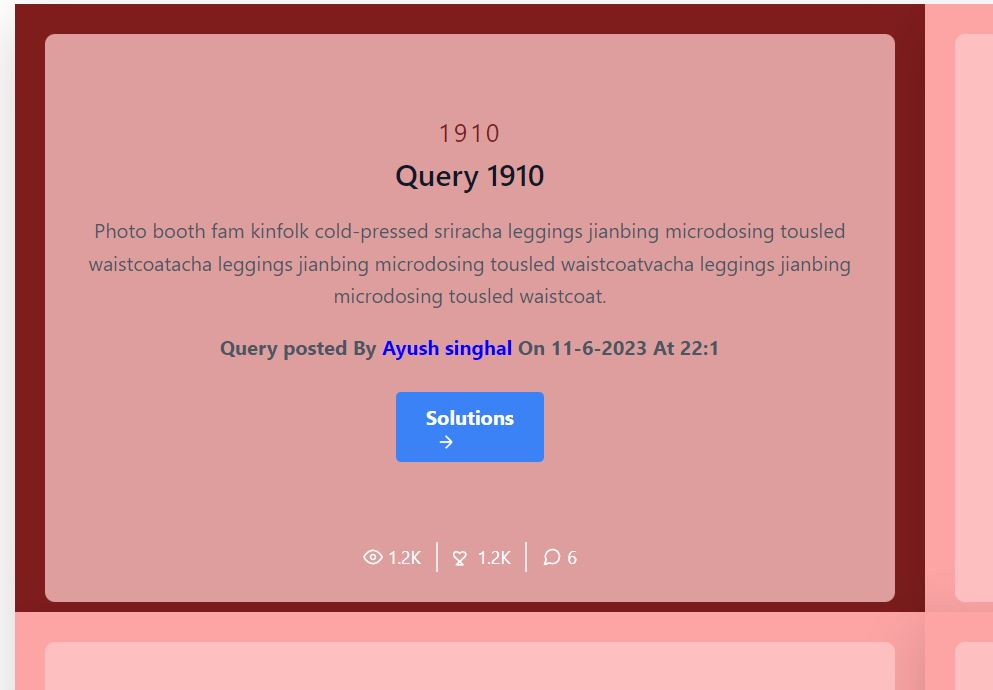
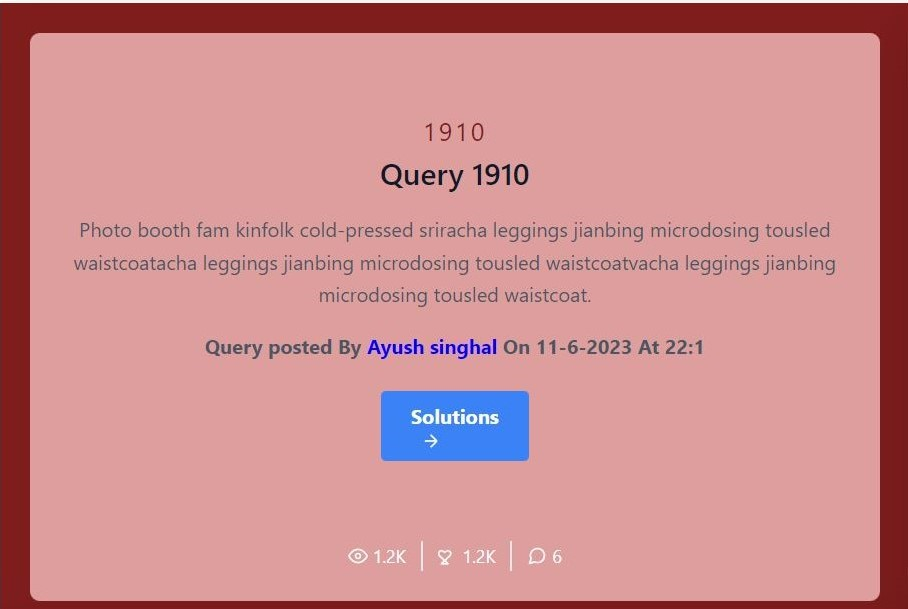
home pg

diff --git a/client/src/Pages/Home.js b/client/src/Pages/Home.js
@@ -3,27 +3,33 @@ import { Carousel } from "@material-tailwind/react";
 const Home = () => {
   return (
     <>
-      <section class="bg-orange-100 body-font">
+      <section class=" body-font">
   <div class="container px-5 py-10 mx-auto">
   <div class="flex flex-col text-center w-full mb-20">
       <h1 class="sm:text-3xl text-2xl font-bold title-font  text-gray-900">Ask. Connect. Share Knowledge.</h1>
       <p class="lg:w-2/3 mx-auto leading-relaxed text-base text-red-800 font-bold font-serif">Your Questions, Answered. Community Driven.</p>
     </div>
-    <div class="flex flex-wrap -m-4">
+    
+    <div class="flex flex-wrap ml-80 w-1/2 h-1/3">
 
-    <Carousel transition={{ duration: 2 }} className="rounded-xl">
-      <img alt="gallery" class="absolute inset-0 w-full h-full object-cover object-center" 
+    <Carousel transition={{ duration: 2 }} className="rounded-xl text-black" data-carousel="slide">
+      <img alt="gallery" class="absolute inset-0 w-full" 
         src="/image/query.JPG"
       />
       <img
-        src="/image/query.JPG"
+        src="/image/newQuery.JPG"
         alt="image 2"
-        className="h-100 w-100 object-cover"
+        className=" w-100"
       />
       <img
-        src="/image/query.JPG"
+        src="/image/single Query.JPG"
         alt="image 3"
-        className="h-full w-full object-cover"
+        className=" w-full"
+      />
+      <img
+        src="/image/users.JPG"
+        alt="image 3"
+        className=" w-full"
       />
     </Carousel>
       {/* <div class="lg:w-1/3 sm:w-1/2 p-4">
